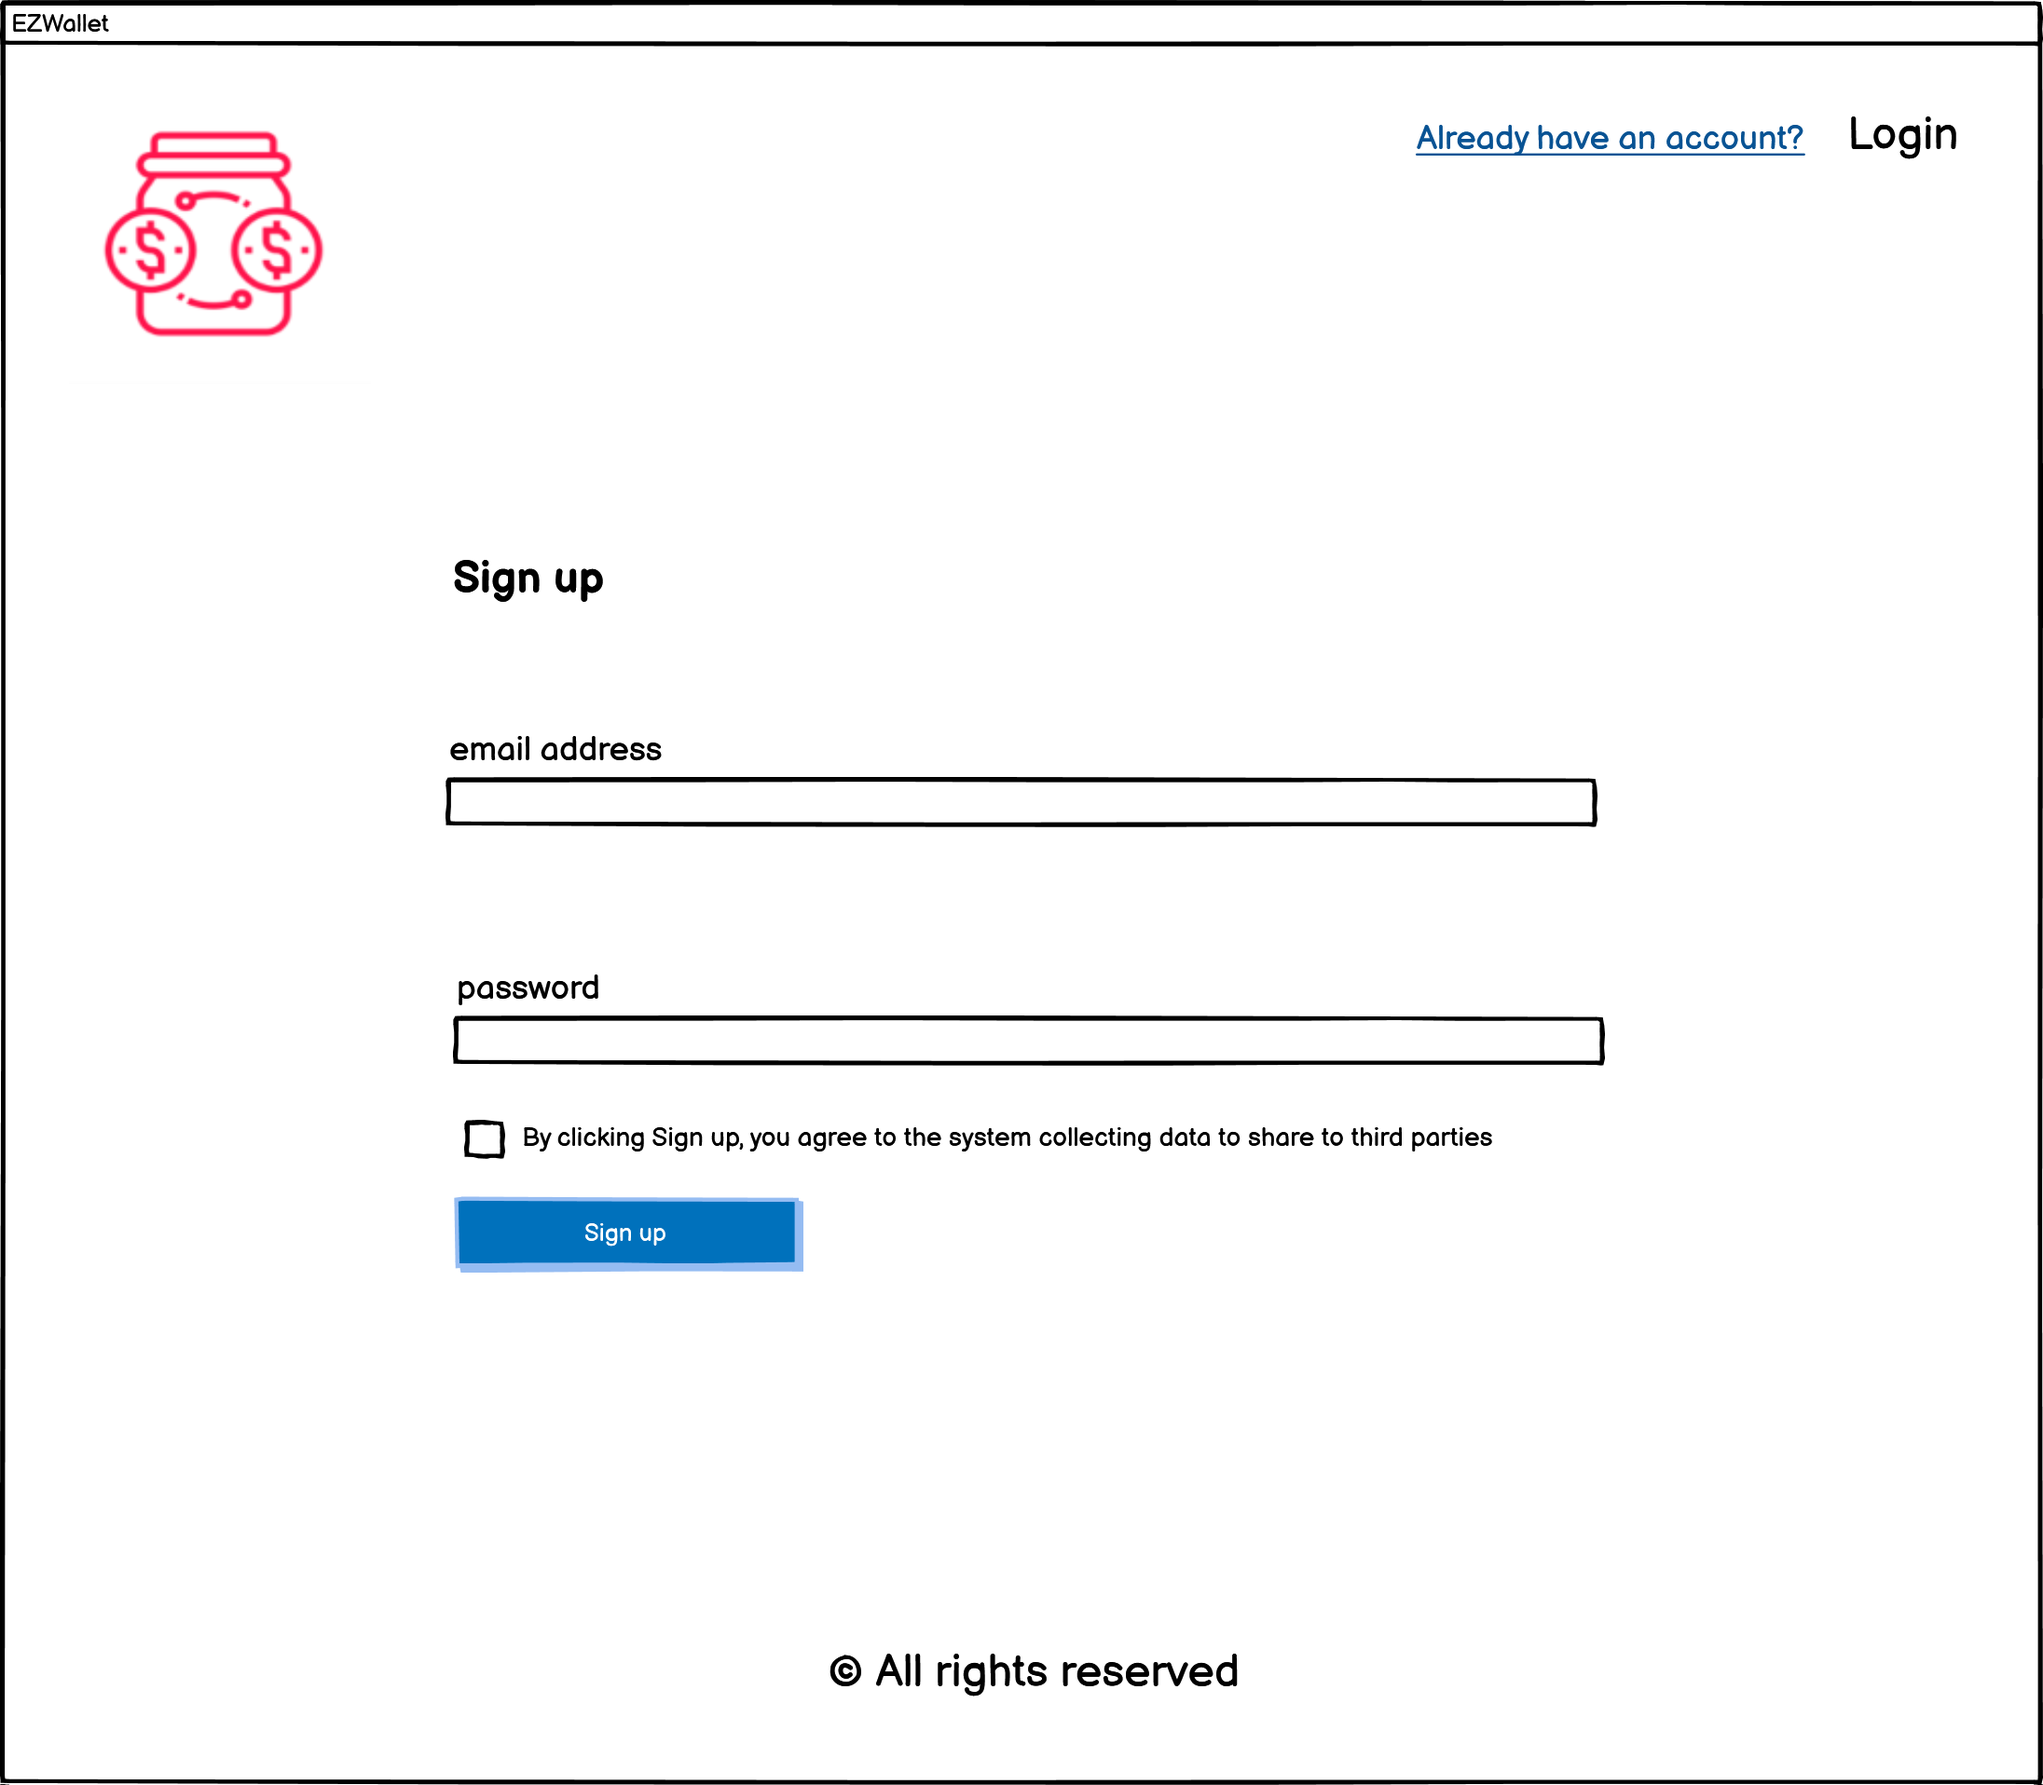
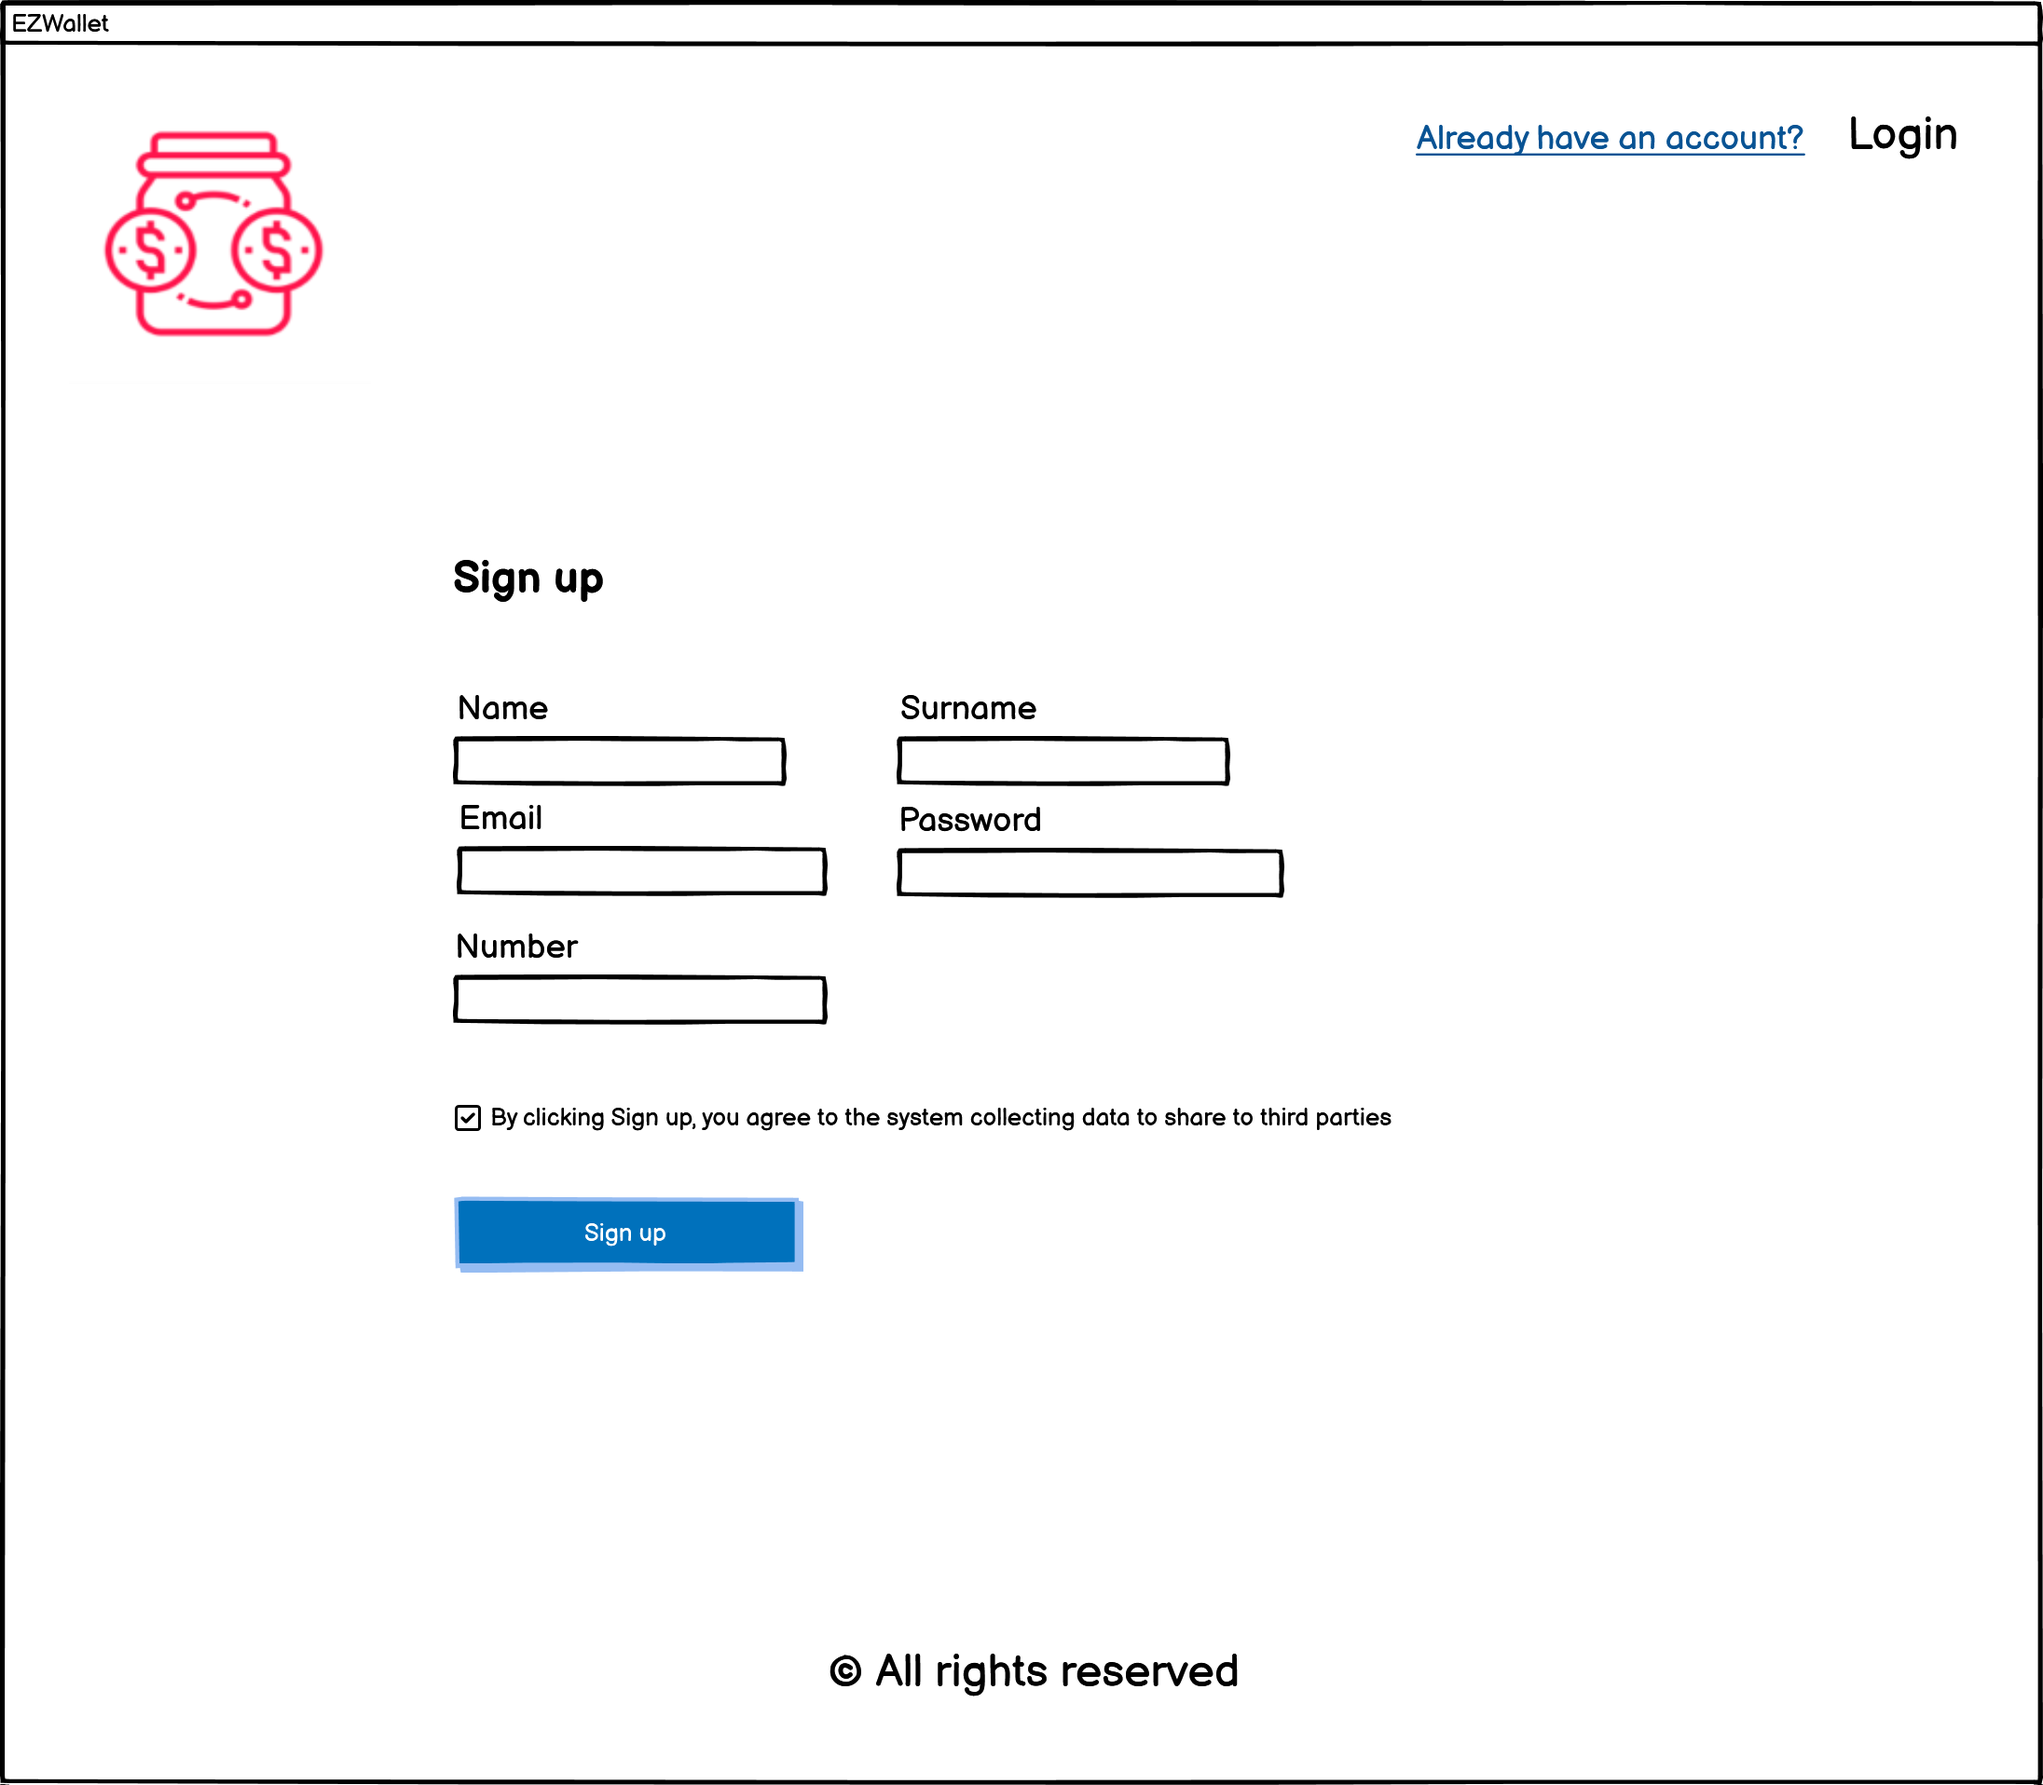
Changes on Gui v2

Changed region(s): [[0.2172, 0.3695, 0.7755, 0.6467]]

diff --git a/RequirementsDocumentV2.md b/RequirementsDocumentV2.md
@@ -224,12 +224,12 @@ EZWallet (read EaSy Wallet) is a software application designed to help individua
 |  4	 | The user has now an account that doesn't share data with thirds |
 
 ##### Scenario 3 (Exceptions)
-| Scenario 2.1 | Email already in use |
+| Scenario 3.1 | Email already in use |
 | ------------- |:-------------:| 
 |  Precondition     | The email is already used by another user |
 |  Post condition     | The account is not created for the user |
 | Step#        | Description  |
-|  1     | The system asks to inserts an email, an username and a password for the new account | 
+|  1     | The system asks to inserts an email, username, name, surname, phone number and a password for the new account | 
 |  2     | The system checks that the email is not used by any user yet |
 |  3	 | The system detects that the email is already in use |
 |  4	 | The system returns an error: "you are already registered" to the user |
@@ -239,12 +239,21 @@ EZWallet (read EaSy Wallet) is a software application designed to help individua
 | ------------- |:-------------:| 
 |  Precondition     | The user has an account and he's logged in |
 |  Post condition     | The transaction is created into the user's account |
-|  Nominal Scenario     | The user want to create a transaction, the transaction is successfully created|
+|  Nominal Scenario     | The user wants to create a transaction, the transaction is successfully created|
 |  Variants     | - |
 |  Exceptions     | - |
 
 ##### Scenario 1 (Nominal Scenario)
 | Scenario 1.1 | Nominal Scenario |
+| ------------- |:-------------:| 
+|  Precondition     | The user has an account and he's logged in |
+|  Post condition     | The transaction is created into the user's account |
+| Step#        | Description  |
+|  1     | The user asks to create a transaction (giving: name, amount, type, date) |  
+|  2     | The system inserts the new transaction inside the database |
+|  3	 | The transaction is created and the user can now see it inside the app |
+##### Scenario 2 (Variant Wallet)
+| Scenario 2.1 | Nominal Scenario |
 | ------------- |:-------------:| 
 |  Precondition     | The user has an account and he's logged in |
 |  Post condition     | The transaction is created into the user's account |
@@ -282,7 +291,7 @@ EZWallet (read EaSy Wallet) is a software application designed to help individua
 |  Exceptions     | - |
 
 ##### Scenario 1 (Nominal Scenario)
-| Scenario 2.1 | Labeled Transactions |
+| Scenario 1.1 | Labeled Transactions |
 | ------------- |:-------------:| 
 |  Precondition     | The user has an account and he's logged in |
 |  Post condition     | All the transactions with their respective category (type and color) are shown to the user |
@@ -292,7 +301,7 @@ EZWallet (read EaSy Wallet) is a software application designed to help individua
 |  3	 | The list of transactions joined with the respective categories description is sent to the user |
 
 ##### Scenario 2 (Variant Transactions filtered by category)
-| Scenario 3.1 | Nominal Scenario |
+| Scenario 2.1 | Nominal Scenario |
 | ------------- |:-------------:| 
 |  Precondition     | The user has an account and he's logged in |
 |  Post condition     | All the transactions that match the categories selected by the user are shown |
@@ -302,7 +311,7 @@ EZWallet (read EaSy Wallet) is a software application designed to help individua
 |  3	 | The list of transactions of the chosen categories is sent back |
 
 ##### Scenario 3 (Variant Transaction filtered by date)
-| Scenario 4.1 | Nominal Scenario |
+| Scenario 3.1 | Nominal Scenario |
 | ------------- |:-------------:| 
 |  Precondition     | The user has an account and he's logged in |
 |  Post condition     | All the transactions that match the selected time window by the user are shown |
@@ -312,7 +321,7 @@ EZWallet (read EaSy Wallet) is a software application designed to help individua
 |  3	 | The list of transactions of the chosen time window is sent back |
 
 ##### Scenario 4 (Variant Transaction filtered by wallet)
-| Scenario 5.1 | Nominal Scenario |
+| Scenario 4.1 | Nominal Scenario |
 | ------------- |:-------------:| 
 |  Precondition     | The user has an account and he's logged in |
 |  Post condition     | All the transactions that match the selected wallet by the user are shown |
@@ -378,7 +387,7 @@ EZWallet (read EaSy Wallet) is a software application designed to help individua
 |  3	 | The category is deleted and the user cannot see it anymore in the app |
 
 ##### Scenario 2 (Exceptions)
-| Scenario 1.1 | Nominal Scenario |
+| Scenario 2.1 | Nominal Scenario |
 | ------------- |:-------------:| 
 |  Precondition     | The user has a category inside his account |
 |  Post condition     | The category is not deleted |
@@ -541,7 +550,7 @@ EZWallet (read EaSy Wallet) is a software application designed to help individua
 |  3	 | The friend request is sent |
 
 ##### Scenario 2 (Exceptions)
-| Scenario 1.2 | The username of the reciever doesn't exist |
+| Scenario 2.1 | The username of the reciever doesn't exist |
 | ------------- |:-------------:| 
 |  Precondition     | The user has an account and he's logged in |
 |  Post condition     | The friend request is not sent to the specific user |

diff --git a/GUIPrototypeV2.md b/GUIPrototypeV2.md
@@ -28,12 +28,18 @@ Version:
 <div style="text-align:center"><img src="./media/V2/Sign up.png"  width="250" height="250"/>
 <img src="./media/V2/Sign up - Successfully_registered.png"  width="250" height="250"/></div>
 
-##### Scenario 2 (Exceptions)
+##### Scenario 2 (Variant Deny Third Party Companies)
+<div style="text-align:center"><img src="./media/V2/Sign up - Unselected.png"  width="400" height="400"/></div>
+
+##### Scenario 3 (Exceptions)
 <div style="text-align:center"><img src="./media/V2/Sign up - Already_registered.png"  width="400" height="400"/></div>
 
 ### Use case: Create Transaction
 ##### Scenario 1 (Nominal Scenario)
 <div style="text-align:center"><img src="./media/V2/Dashboard-add_Transaction.png"  width="400" height="400"/></div>
+
+##### Scenario 2 (Variant Wallet)
+<div style="text-align:center"><img src="./media/V2/Wallet_addTransaction_ByWallet.png"  width="400" height="400"/></div>
 
 ### Use case: Delete Transaction
 ##### Scenario 1 (Nominal Scenario)
@@ -42,8 +48,7 @@ Version:
 
 ### Use case: View Transactions / View Categories / Allow third party companies to use user's personal data / View Analytics / Export Analytics
 ##### Scenario 1 (Nominal Scenario)
-<div style="text-align:center"><img src="./media/V2/Dashboard.png"  width="250" height="250"/>
-<img src="./media/V2/Dashboard - Variant Administrator.png"  width="250" height="250"/></div>
+<div style="text-align:center"><img src="./media/V2/Dashboard.png"  width="250" height="250"/></div>
 
 
 ##### Scenario 2 (Variant Transactions filtered by category)
@@ -53,9 +58,16 @@ Version:
 ##### Scenario 3 (Variant Transaction filtered by date)
 <div style="text-align:center"><img src="./media/V2/Dashboard - filterByTime.png"  width="400" height="400"/></div>
 
-### Use case Create Category
+### Use case: Create Category
 ##### Scenario 1 (Nominal Scenario)
 <div style="text-align:center"><img src="./media/V2/Dashboard-add_Category.png"  width="400" height="400"/></div>
+
+### Use case: Delete Category
+##### Scenario 1 (Nominal Scenario)
+<div style="text-align:center"><img src="./media/V2/Dashboard-delete_Category.png"  width="400" height="400"/></div>
+
+##### Scenario 2 (Exceptions)
+<div style="text-align:center"><img src="./media/V2/Dashboard-delete_Category - Exception.png"  width="400" height="400"/></div>
 
 ### Use case: View Accounts
 ##### Scenario 1 (Nominal Scenario)
@@ -68,24 +80,19 @@ Version:
 ###### Scenario 2.2  Exception
 <div style="text-align:center"><img src="./media/V2/Administrator - specific_user - error.png"  width="400" height="400"/></div>
 
-### Use case Create Wallet
+### Use case: Create Wallet
 ##### Scenario 1 (Nominal Scenario)
 <div style="text-align:center"><img src="./media/V2/Wallet_AddWallet.png"  width="400" height="400"/></div>
 
-### Use case Delete Wallet
+### Use case: Delete Wallet
 ##### Scenario 1 (Nominal Scenario)
 <div style="text-align:center"><img src="./media/V2/Wallet_RemoveWallet.png"  width="400" height="400"/></div>
 
-### Use case View Wallets / View Transactions inside a wallet / Use case Delete some transactions inside a wallet / Variant Transaction filtered by date
+### Use case: View Wallets / View Transactions inside a wallet / Use case Delete some transactions inside a wallet / Variant Transaction filtered by date
 ##### Scenario 1 (Nominal Scenario) / 
 <div style="text-align:center"><img src="./media/V2/Wallet_Dashboard.png"  width="400" height="400"/></div>
 
-### Use case Insert some transactions inside a wallet
-##### Scenario 1 (Nominal Scenario)
-<div style="text-align:center"><img src="./media/V2/Wallet_addTransaction_ByWallet.png"  width="400" height="400"/></div>
-
-
-### Use case Send friend request / Respond friend request / View list of pending friend requests
+### Use case: Send friend request / Respond friend request / View list of pending friend requests
 ##### Scenario 1 (Nominal Scenario)
 <div style="text-align:center"><img src="./media/V2/User.png"  width="400" height="400"/></div>
 
